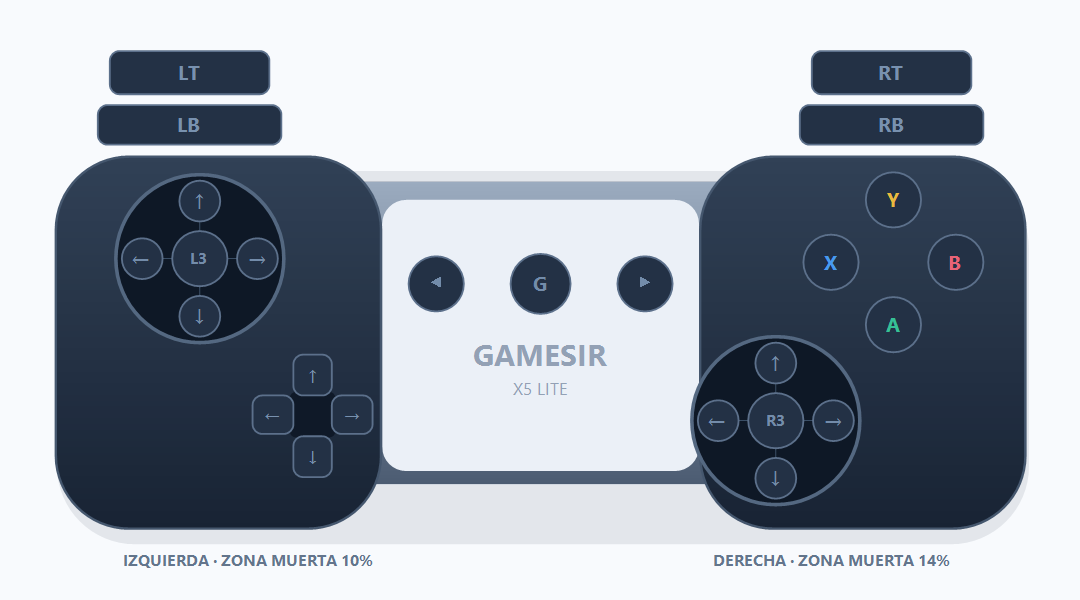
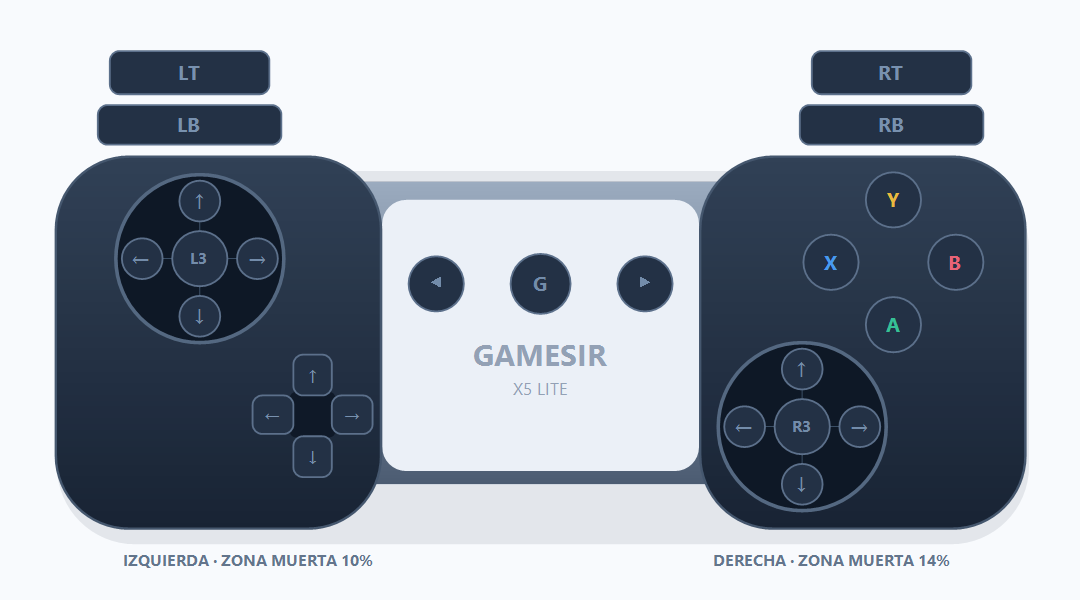
Center the right stick inside its grip

Changed region(s): [[0.6417, 0.54, 0.825, 0.87]]

diff --git a/src/GameSirSimple/ControllerView.cs b/src/GameSirSimple/ControllerView.cs
@@ -15,6 +15,9 @@ class ControllerView:Control
     public event Action<string>? ResetRequested;
     int hovered=-1;
     readonly ToolTip tips=new(){InitialDelay=200,ReshowDelay=80,AutoPopDelay=12000};
+    // Stick centers in the 900x500 design space. Each 70px ring sits fully inside its grip,
+    // 15px from the nearest edges (top for the left stick, left and bottom for the right one).
+    static readonly PointF LeftStick=new(166,215),RightStick=new(668,355);
     public static readonly ControlSpot[] Spots=CreateSpots();
     public ControllerView(){DoubleBuffered=true;ResizeRedraw=true;BackColor=Color.FromArgb(248,250,253);AccessibleName="Joystick interactivo: hacé clic para asignar botones y direcciones";}
     static ControlSpot[] CreateSpots()
@@ -31,7 +34,7 @@ class ControllerView:Control
         void Stick(int center,int start,float x,float y,string name){
             Circle(center,x,y,23,name);Circle(start,x-48,y,17,"←");Circle(start+1,x+48,y,17,"→");Circle(start+2,x,y-48,17,"↑");Circle(start+3,x,y+48,17,"↓");
         }
-        Stick(7,17,166,215,"L3");Stick(8,21,646,350,"R3");
+        Stick(7,17,LeftStick.X,LeftStick.Y,"L3");Stick(8,21,RightStick.X,RightStick.Y,"R3");
         return s.ToArray();
     }
     public static RectangleF Viewport(Size size)
@@ -88,7 +91,7 @@ class ControllerView:Control
             using var trace=new Pen(Color.FromArgb(150,70,190,220),2.5f){StartCap=LineCap.Round,EndCap=LineCap.Round};g.DrawLine(trace,x,y,px,py);
             using var dot=new SolidBrush(Color.FromArgb(67,211,208));using var edge=new Pen(Color.White,1.5f);g.FillEllipse(dot,px-6,py-6,12,12);g.DrawEllipse(edge,px-6,py-6,12,12);
         }
-        Stick(166,215,lx,ly,leftDead);Stick(646,350,rx,ry,rightDead);
+        Stick(LeftStick.X,LeftStick.Y,lx,ly,leftDead);Stick(RightStick.X,RightStick.Y,rx,ry,rightDead);
         using(var b=new SolidBrush(Color.FromArgb(15,25,40)))using(var p=Rounded(new(241,326,38,38),5))g.FillPath(b,p);
         foreach(var s in Spots){
             bool active=values[s.Index]>.5f,selected=recording==Engine.Names[s.Index],hover=s.Index==hovered;
@@ -98,7 +101,7 @@ class ControllerView:Control
             if(s.Round){g.FillEllipse(b,s.Bounds);g.DrawEllipse(pen,s.Bounds);}else{using var p=Rounded(s.Bounds,8);g.FillPath(b,p);g.DrawPath(pen,p);}
             DrawText(g,s.Label,s.Bounds,s.Index>=17?19: s.Index==7||s.Index==8?13:17,active||selected?Color.White:s.Tint,FontStyle.Bold);
         }
-        Pointer(166,215,lx,ly);Pointer(646,350,rx,ry);
+        Pointer(LeftStick.X,LeftStick.Y,lx,ly);Pointer(RightStick.X,RightStick.Y,rx,ry);
         DrawText(g,I18n.T("IZQUIERDA · ZONA MUERTA {0}%",leftDead),new(42,454,330,26),13,muted,FontStyle.Bold);DrawText(g,I18n.T("DERECHA · ZONA MUERTA {0}%",rightDead),new(528,454,330,26),13,muted,FontStyle.Bold);
         g.Restore(saved);
     }

diff --git a/CHANGELOG.md b/CHANGELOG.md
@@ -7,6 +7,7 @@
 - Show D-pad bindings with their direction arrow instead of the raw hat bit number.
 - Open the window with a single left click on the tray icon (double-click still works).
 - Read the embedded mapping correctly even if the file is checked out with CRLF line endings.
+- Center the right stick (R3) inside its grip instead of overflowing its left edge.
 - Draw the live stick pointer on top of L3/R3 and on the same scale as the dead zone, so small movements are visible.
 - Grey out the Xbox button while no controller is connected, and show it in red while emulation is active.
 - Place stick setting fields next to their labels and align the checkboxes and buttons on that tab.
